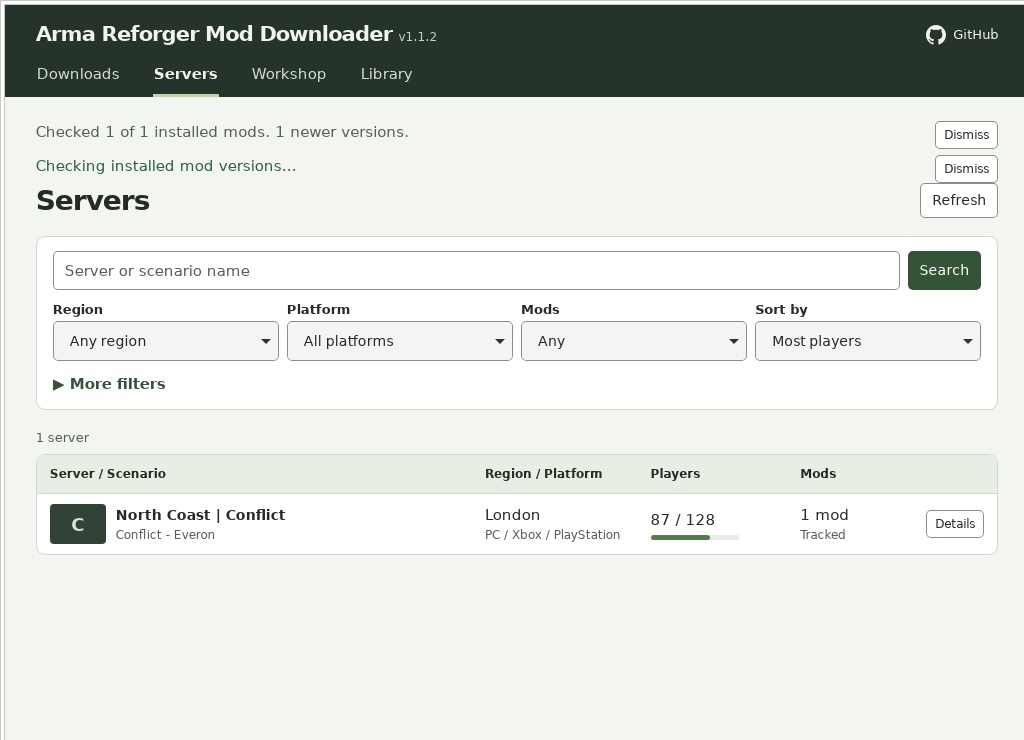
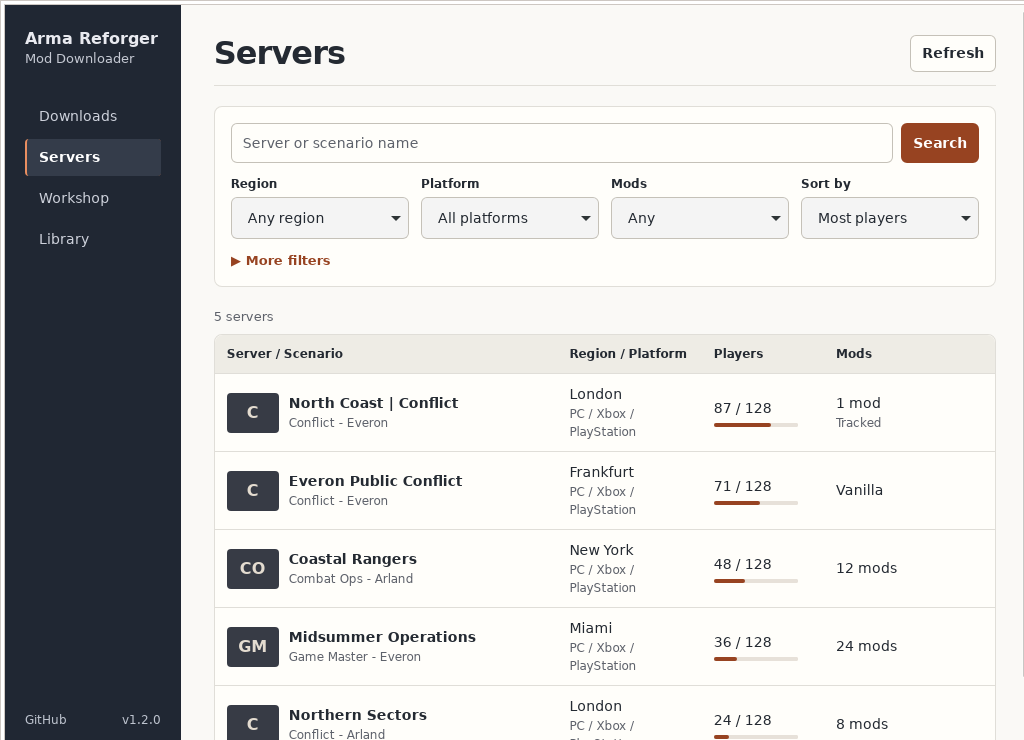
Update screenshots for the redesigned dashboard

diff --git a/docs/index.html b/docs/index.html
@@ -139,7 +139,7 @@
         <p class="release"><a href="https://github.com/goxy701/arma-reforger-mod-downloader/releases/latest">Release notes and checksums</a></p>
       </div>
       <figure class="preview">
-        <img src="screenshots/downloads.png" width="1056" height="750" alt="Download progress, speed, and queued Workshop mods.">
+        <img src="screenshots/downloads.png" width="1024" height="740" alt="Download progress, speed, and queued Workshop mods.">
       </figure>
     </section>
     <div class="guide">

diff --git a/docs/TESTING.md b/docs/TESTING.md
@@ -37,6 +37,6 @@ python3 tools/Test-LinuxStart.py /tmp/rfmm-test-package/ReforgerModDownloader/li
 
 CI runs the Windows desktop and audit jobs and the Ubuntu desktop and backend jobs on `main` and pull requests. You can also run CI manually. The jobs use temporary profiles and a local Workshop mock.
 
-To test against the live Workshop, use an empty profile. Install the dedicated server from the packaged app, queue a public mod, and check that it appears under **Completed**. Pause, close the app, and reopen it to check that the queue and pause state are saved.
+To test against the live Workshop, use an empty profile. Install the dedicated server from the packaged app, queue a public mod, and check that it appears under **Library → Installed mods**. Pause, close the app, and reopen it to check that the queue and pause state are saved.
 
 See [Security](SECURITY.md) for release verification.

diff --git a/README.md b/README.md
@@ -32,7 +32,9 @@ On Linux, the desktop app finds the game's Steam Proton profile. Its default is 
 
 ## Screenshots
 
-![Download progress, speed, and queued Workshop mods](docs/screenshots/downloads.png)
+The dashboard with sample data.
+
+![Active download progress, transfer speed, and queue](docs/screenshots/downloads.png)
 
 ![Live server browser with region, platform, and mod filters](docs/screenshots/servers.png)
 
